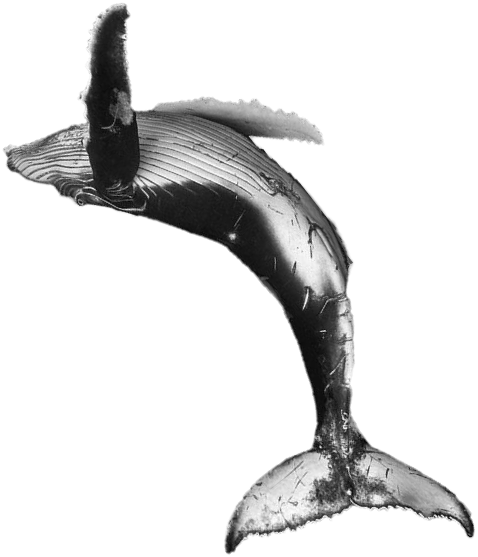
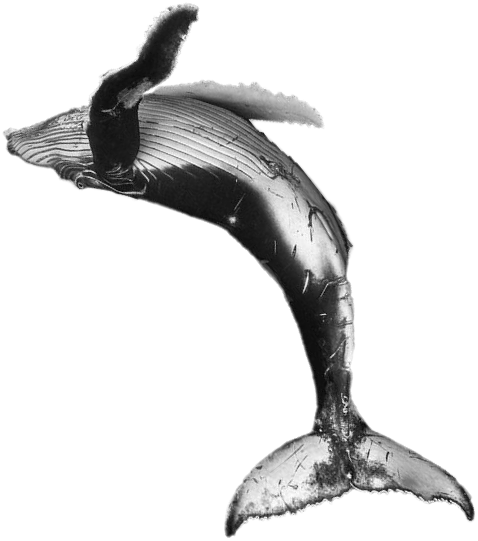
The whale: its raised flipper turned further right, dark skin still dotted (no hole through the head), softer edges, a wider and gentler fade into the water.

Changed region(s): [[0.0, 0.0, 0.9958, 0.976], [0.4686, 0.976, 0.4979, 1.0]]

diff --git a/apps/web/src/components/copy/DotWhale.tsx b/apps/web/src/components/copy/DotWhale.tsx
@@ -4,7 +4,9 @@
  * the dots denser where the photo is lighter - with faint round stars around it.
  *
  * The photo (owner, 2026-10-26: a full-body humpback cut out on white) is cut
- * out, mirrored so it heads left, tilted into a breach, and kept as a tone map
+ * out (its edge softened a little), mirrored so it heads left, tilted into a
+ * breach, its raised flipper turned a little further right about its root (owner,
+ * 2026-10-26), and kept as a tone map
  * (whale-tone.png: grey = the photo's light, alpha = the whale), equalised over
  * the whale so its dark skin spreads over the whole range. The map is inlined in
  * the page's code (no second request), and read as soon as this module loads.
@@ -24,14 +26,19 @@ import toneUrl from './whale-tone.png?inline';
 
 /** The tone map's size, and its row on the surface; the box adds a little room either side. */
 const TW = 478;
-const TH = 557;
-const WATERLINE = 279;
+const TH = 541;
+const WATERLINE = 271;
 const PAD = 18;
 const W = TW + PAD * 2;
 /** Half the band over which sharp turns to under water, either side of the surface (CSS px). */
-const SURFACE_BAND = 14;
+const SURFACE_BAND = 26;
 
 interface Tone { l: Float32Array; a: Float32Array }
+
+const sm = (e0: number, e1: number, x: number) => {
+  const t = Math.min(1, Math.max(0, (x - e0) / (e1 - e0)));
+  return t * t * (3 - 2 * t);
+};
 interface Dot { x: number; y: number; r: number; a: number; ph: number; sp: number; dx: number; dy: number }
 
 let toneOnce: Promise<Tone> | null = null;
@@ -82,7 +89,11 @@ function samp(f: Float32Array, x: number, y: number): number {
   return (f[i]! * (1 - fx) + f[i + 1]! * fx) * (1 - fy) + (f[i + TW]! * (1 - fx) + f[i + TW + 1]! * fx) * fy;
 }
 
-/** The stipple: dots dropped where the whale is, kept more often where it is light. */
+/**
+ * The stipple: dots dropped where the whale is, kept more often where it is light -
+ * the dark skin (the raised flipper) still dotted, so it reads as skin, not a hole -
+ * and thinning out over the soft edge.
+ */
 function stipple(t: Tone, count: number): Dot[] {
   const dots: Dot[] = [];
   let tries = 0;
@@ -90,9 +101,10 @@ function stipple(t: Tone, count: number): Dot[] {
     tries++;
     const x = Math.random() * TW;
     const y = Math.random() * TH;
-    if (samp(t.a, x, y) < 0.5) continue;
-    const v = 0.07 + 0.93 * Math.pow(samp(t.l, x, y), 1.5);
-    if (Math.random() > v) continue;
+    const edge = samp(t.a, x, y);
+    if (edge < 0.04) continue;
+    const v = 0.2 + 0.8 * Math.pow(samp(t.l, x, y), 1.35);
+    if (Math.random() > v * sm(0.04, 0.85, edge)) continue;
     dots.push({ x, y, r: 0.4 + Math.random() * 0.45 * (0.5 + v), a: 0.3 + 0.7 * v, ph: Math.random() * Math.PI * 2, sp: 0.6 + Math.random() * 1.4, dx: 0, dy: 0 });
   }
   return dots;
@@ -191,7 +203,8 @@ export function DotWhale() {
       lctx.globalCompositeOperation = 'destination-in';
       const under = lctx.createLinearGradient(0, 0, 0, low.height);
       under.addColorStop(top / low.height, 'rgba(0,0,0,0)');
-      under.addColorStop(Math.min(1, (surface + band) / low.height), 'rgba(0,0,0,0.62)');
+      under.addColorStop(Math.min(1, (surface + band) / low.height), 'rgba(0,0,0,0.85)');
+      under.addColorStop(Math.min(1, (surface + band * 4) / low.height), 'rgba(0,0,0,0.62)');
       under.addColorStop(1, 'rgba(0,0,0,0.34)');
       lctx.fillStyle = under;
       lctx.fillRect(0, 0, low.width, low.height);
